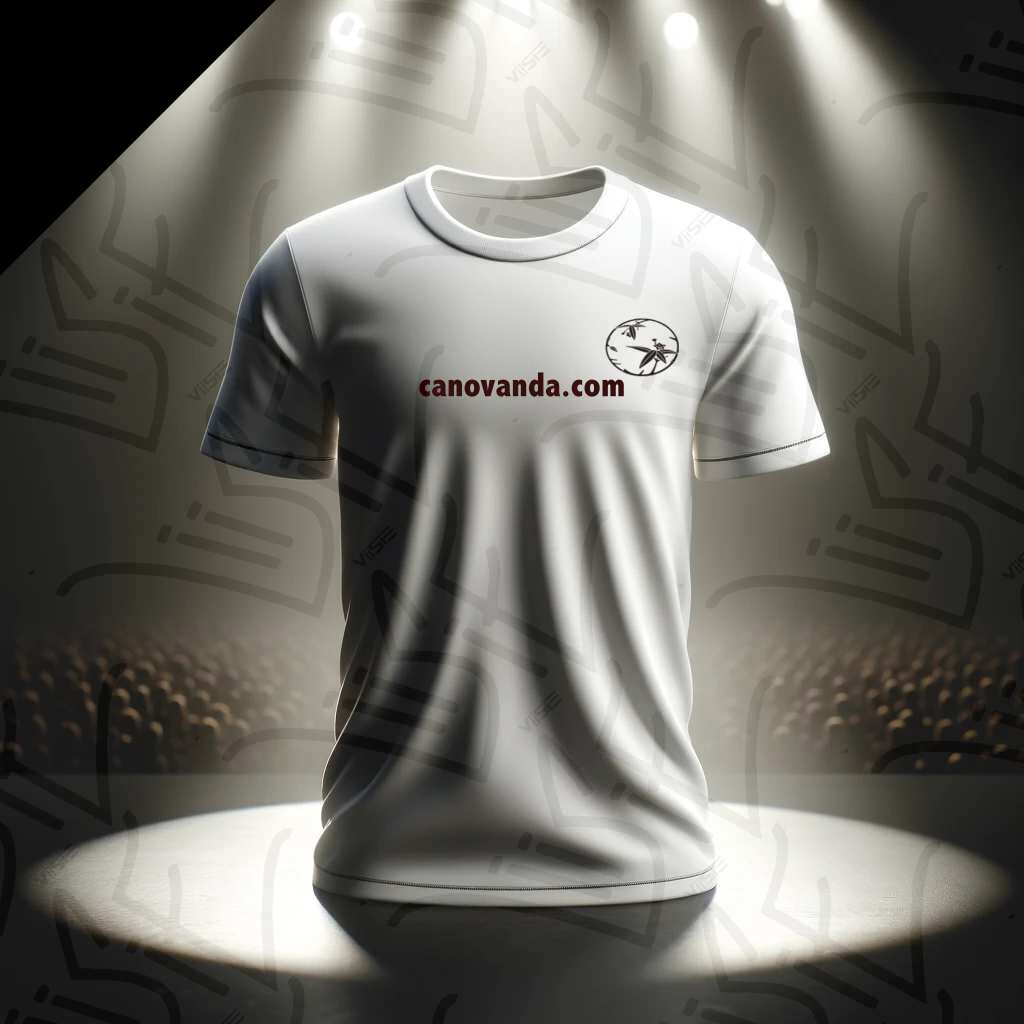
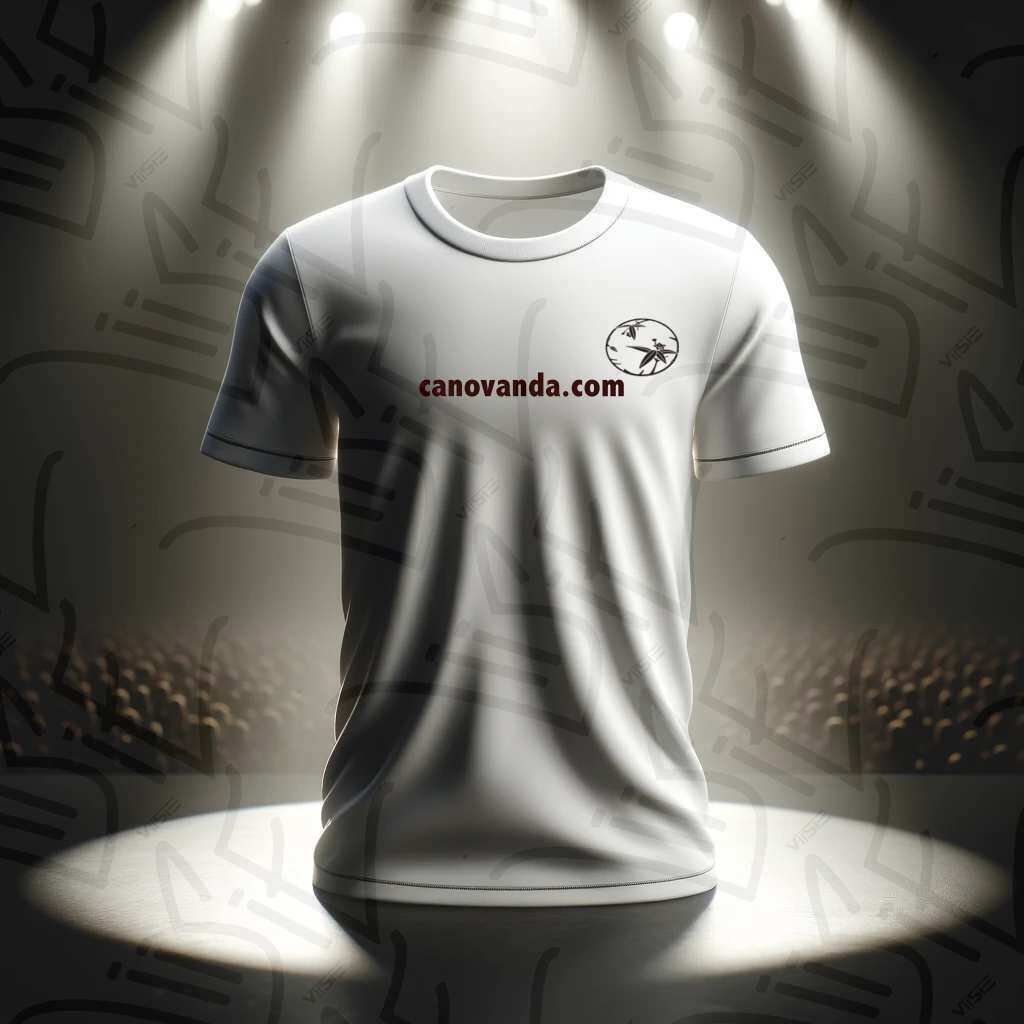
improve the watermark coverage area

Changed region(s): [[0.0, 0.0, 0.2812, 0.2812]]

diff --git a/add_watermark.php b/add_watermark.php
@@ -27,13 +27,13 @@
  * Usage example: XXX.php filename.jpg
  */
 if( isset($argv[1]) ) {
-    if( file_exists( $argv[1] )  ) {
-      print_r($argv);
-    }
-  } else {
-    echo "usage example: XXX.php filename.jpg\r\n";
-    exit();
+  if( file_exists( $argv[1] )  ) {
+    print_r($argv);
   }
+} else {
+  echo "usage example: XXX.php filename.jpg\r\n";
+  exit();
+}
 
 $filename = $argv[1];
 
@@ -47,48 +47,52 @@ $filename = $argv[1];
  *
  */
 function sing_add_watermark($filename) {
-    $original_filename = pathinfo($filename, PATHINFO_FILENAME);
-    $watermark = 'logo-sample.png';
-    
-    // Load the original image
-    $image = new Imagick(realpath($filename));
-    $image->setImageFormat("png");
 
-    // Load the watermark image
-    $texture = new Imagick(realpath($watermark));
-    $texture->setImageAlpha(0.05); // Set transparency
+  $original_filename = pathinfo($filename, PATHINFO_FILENAME);
+  $watermark = 'logo-sample.png';
+  
+  // Load the original image
+  $image = new Imagick(realpath($filename));
+  $image->setImageFormat("png");
 
-    // Create a large canvas for the watermark pattern
-    $canvas_width = $image->getImageWidth() * 2.5;
-    $canvas_height = $image->getImageHeight() * 2.5;
-    $canvas = new Imagick();
-    $canvas->newImage($canvas_width, $canvas_height, new ImagickPixel('none'));
-    $canvas->setImageFormat("png");
+  // Load the watermark image
+  $texture = new Imagick(realpath($watermark));
+  $texture->setImageAlpha(0.05); // Set transparency
 
-    // Fill the canvas with the watermark texture
-    for ($x = 0; $x < $canvas_width; $x += $texture->getImageWidth()) {
-        for ($y = 0; $y < $canvas_height; $y += $texture->getImageHeight()) {
-            $canvas->compositeImage($texture, Imagick::COMPOSITE_OVER, $x, $y);
-        }
-    }
+  // Create a larger canvas to accommodate the rotated watermark pattern
+  $diagonal = ceil(sqrt(pow($image->getImageWidth(), 2) + pow($image->getImageHeight(), 2)));
+  $canvas = new Imagick();
+  $canvas->newImage($diagonal, $diagonal, new ImagickPixel('none'));
+  $canvas->setImageFormat("png");
 
-    // Rotate the entire canvas
-    $canvas->rotateImage(new ImagickPixel(), -45);
+  // Fill the canvas with the watermark texture
+  for ($x = 0; $x < $diagonal; $x += $texture->getImageWidth()) {
+      for ($y = 0; $y < $diagonal; $y += $texture->getImageHeight()) {
+          $canvas->compositeImage($texture, Imagick::COMPOSITE_OVER, $x, $y);
+      }
+  }
 
-    // Composite the watermark onto the original image
-    $offsetX = -($canvas_width - $image->getImageWidth()) / 2;
-    $offsetY = -($canvas_height - $image->getImageHeight()) / 2;
-    $image->compositeImage($canvas, Imagick::COMPOSITE_OVER, $offsetX, $offsetY);
+  // Rotate the entire canvas
+  $canvas->rotateImage(new ImagickPixel('none'), -45); // Ensure background remains transparent
 
-    // Save the resulting image
-    $output_path = 'output-' . $original_filename . '.jpg';
-    $image->writeImage($output_path);
+  // Calculate offset to center the watermark pattern on the original image
+  $offsetX = ($image->getImageWidth() - $canvas->getImageWidth()) / 2;
+  $offsetY = ($image->getImageHeight() - $canvas->getImageHeight()) / 2;
 
-    // Clean up
-    $texture->destroy();
-    $canvas->destroy();
+  // Composite the watermark onto the original image
+  $image->compositeImage($canvas, Imagick::COMPOSITE_OVER, $offsetX, $offsetY);
 
-    return $image;
+  // Save the resulting image
+  $output_path = 'output-' . $original_filename . '.jpg';
+  $image->writeImage($output_path);
+
+  // Clean up
+  $texture->destroy();
+  $canvas->destroy();
+  $image->clear();
+  $image->destroy();
+
+  return $image;
 }
 
 $image = sing_add_watermark($filename);
